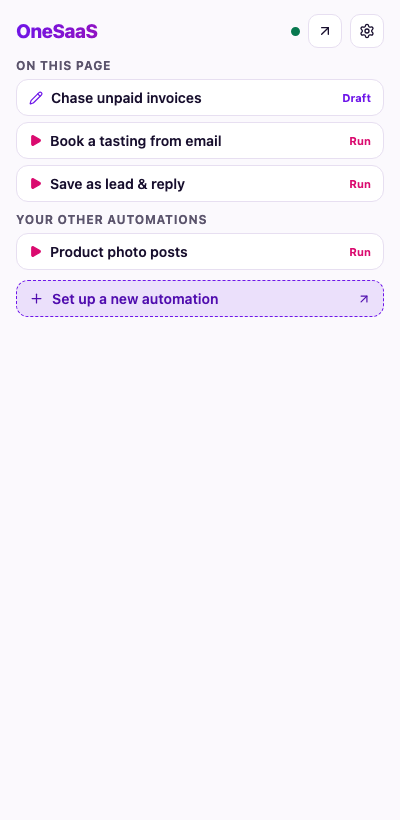
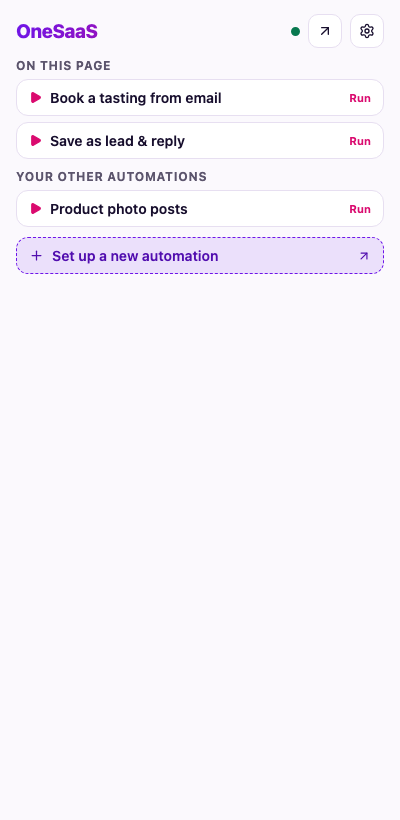
Extension: only list published automations

Changed region(s): [[0.03, 0.0915, 0.96, 0.3963], [0.87, 0.0915, 0.93, 0.122]]

diff --git a/apps/extension/entrypoints/sidepanel/ControlPlane.tsx b/apps/extension/entrypoints/sidepanel/ControlPlane.tsx
@@ -2,7 +2,6 @@ import { savedRecordPath } from '@onesaas/shared';
 import ArrowUpRight from 'lucide-react/icons/arrow-up-right';
 import Check from 'lucide-react/icons/check';
 import Pause from 'lucide-react/icons/pause';
-import Pencil from 'lucide-react/icons/pencil';
 import Play from 'lucide-react/icons/play';
 import Plus from 'lucide-react/icons/plus';
 import Settings from 'lucide-react/icons/settings';
@@ -255,7 +254,6 @@ export default function ControlPlane({
   }
 
   const activate = (a: Automation) => {
-    if (a.status !== 'on') return void openApp(`/automations/${encodeURIComponent(a.id)}?mode=design`);
     if (a.trigger.type === 'trigger.upload') {
       photoFor.current = a;
       photoInput.current?.click();
@@ -312,27 +310,25 @@ export default function ControlPlane({
   // What the panel says follows the paced steps, not the run underneath.
   const shownState: RunState | null = run === null ? null : pacing ? 'running' : run.state;
   const running = shownState === 'starting' || shownState === 'running';
-  const groups = groupAutomations(automations ?? [], site);
+  // Only what's published can run from here; the rest is still being built in the app.
+  const groups = groupAutomations((automations ?? []).filter((a) => a.status === 'on'), site);
 
-  const row = (a: Automation) => {
-    const live = a.status === 'on';
-    return (
-      <button
-        key={a.id}
-        type="button"
-        className={`cta ${live ? 'cta-run' : 'cta-draft'}`}
-        disabled={live && (running || shownState === 'waiting')}
-        onClick={() => activate(a)}
-        title={live ? `Run ${a.name} now` : `${a.name} isn't on yet. Finish it in the app.`}
-      >
-        <span className="cta-icon" aria-hidden="true">
-          {live ? <Play size={13} fill="currentColor" /> : <Pencil size={14} />}
-        </span>
-        <span className="cta-name">{a.name}</span>
-        <span className="cta-tag">{live ? 'Run' : 'Draft'}</span>
-      </button>
-    );
-  };
+  const row = (a: Automation) => (
+    <button
+      key={a.id}
+      type="button"
+      className="cta cta-run"
+      disabled={running || shownState === 'waiting'}
+      onClick={() => activate(a)}
+      title={`Run ${a.name} now`}
+    >
+      <span className="cta-icon" aria-hidden="true">
+        <Play size={13} fill="currentColor" />
+      </span>
+      <span className="cta-name">{a.name}</span>
+      <span className="cta-tag">Run</span>
+    </button>
+  );
 
   const shownStatus = (step: AutomationStep, i: number): string => {
     if (i < revealed) return run?.steps[step.id]?.status ?? 'pending';

diff --git a/apps/extension/test/control-plane.test.ts b/apps/extension/test/control-plane.test.ts
@@ -204,14 +204,10 @@ describe('running an automation', () => {
     expect(banner().textContent).toContain('Finished');
   });
 
-  test('clicking one that is not on opens it in the app and starts no run', async () => {
+  test('an automation that is not published does not show', async () => {
     await render();
-    await act(async () => {
-      button('Half built').click();
-    });
-    await flush();
-    expect(posts('/api/workflows/wf-draft/run')).toHaveLength(0);
-    expect(openApp).toHaveBeenCalledWith('/automations/wf-draft?mode=design');
+    expect(container.textContent).toContain('Save as lead');
+    expect(container.textContent).not.toContain('Half built');
   });
 
   test('setting up a new automation happens in the app', async () => {

diff --git a/apps/extension/entrypoints/sidepanel/panel.css b/apps/extension/entrypoints/sidepanel/panel.css
@@ -421,14 +421,6 @@ body {
   border-color: var(--accent-2);
   background: var(--accent-2-soft);
 }
-.cta-draft .cta-icon,
-.cta-draft .cta-tag {
-  color: var(--accent);
-}
-.control .cta-draft:hover {
-  border-color: var(--accent);
-  background: var(--accent-soft);
-}
 .control .cta-new {
   margin-bottom: 0;
   color: var(--accent-ink);

diff --git a/README.md b/README.md
@@ -83,9 +83,9 @@ Your key stays on your computer and is never sent to the browser.
 
 ## What the Chrome extension does
 
-The side panel does two things: **run your automations** and **show you the results**, including approving a step that's waiting for you. You build and change automations in the app. Its settings screen handles pairing.
+The side panel does two things: **run your published automations** and **show you the results**, including approving a step that's waiting for you. You build and change automations in the app. Its settings screen handles pairing.
 
-<img src="./assets/readme/panel.png" alt="The side panel listing automations for the current page, each with a Run or Draft label" width="280">
+<img src="./assets/readme/panel.png" alt="The side panel listing published automations for the current page, each with a Run label" width="280">
 
 It acts in your own logged-in tabs, so the server never holds your Google or Meta passwords. It can read any site, because a manual automation can use whichever page you're on, but it only reads a page when you click run.
 
